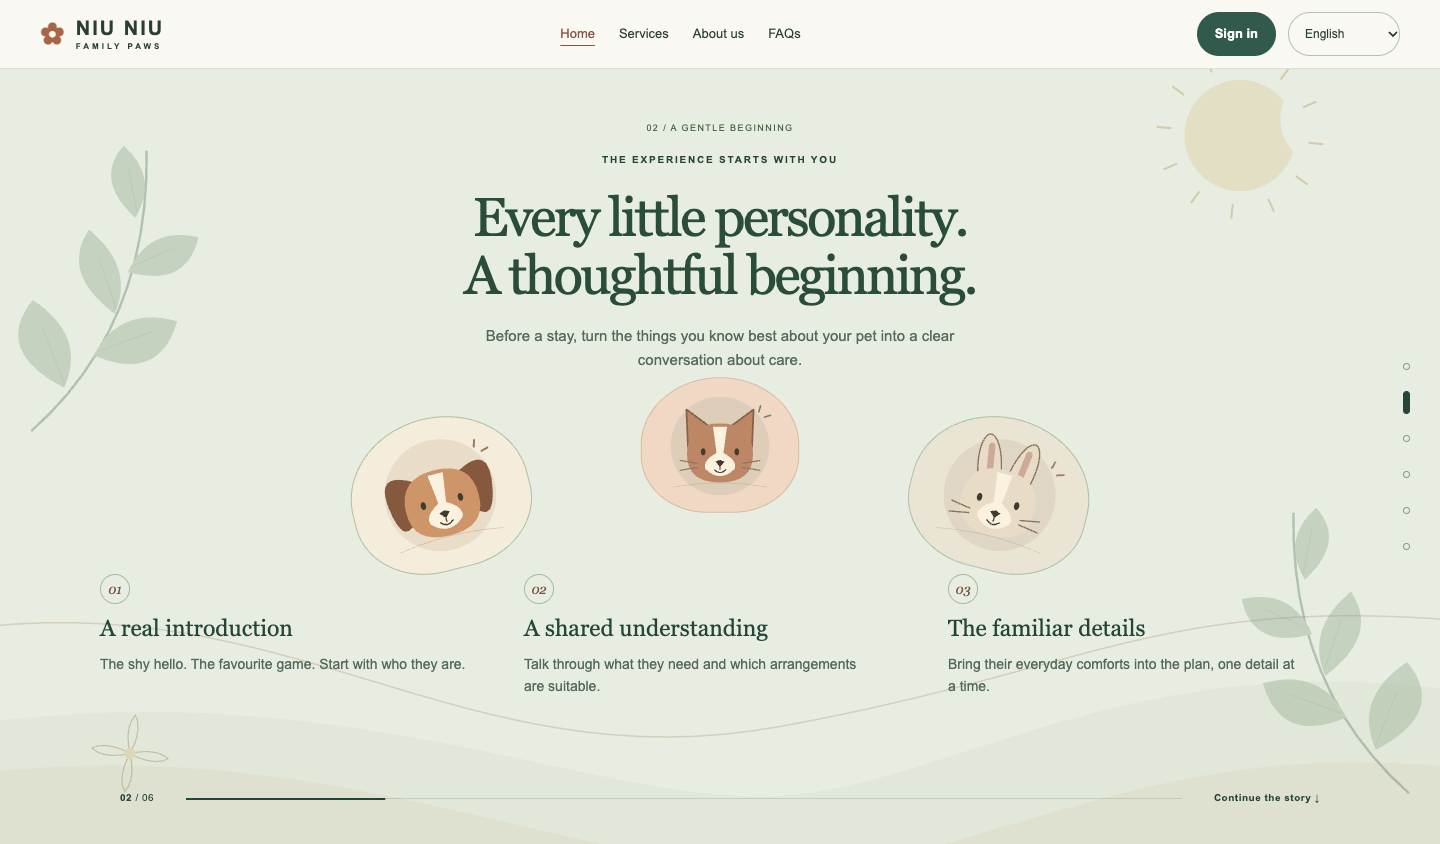
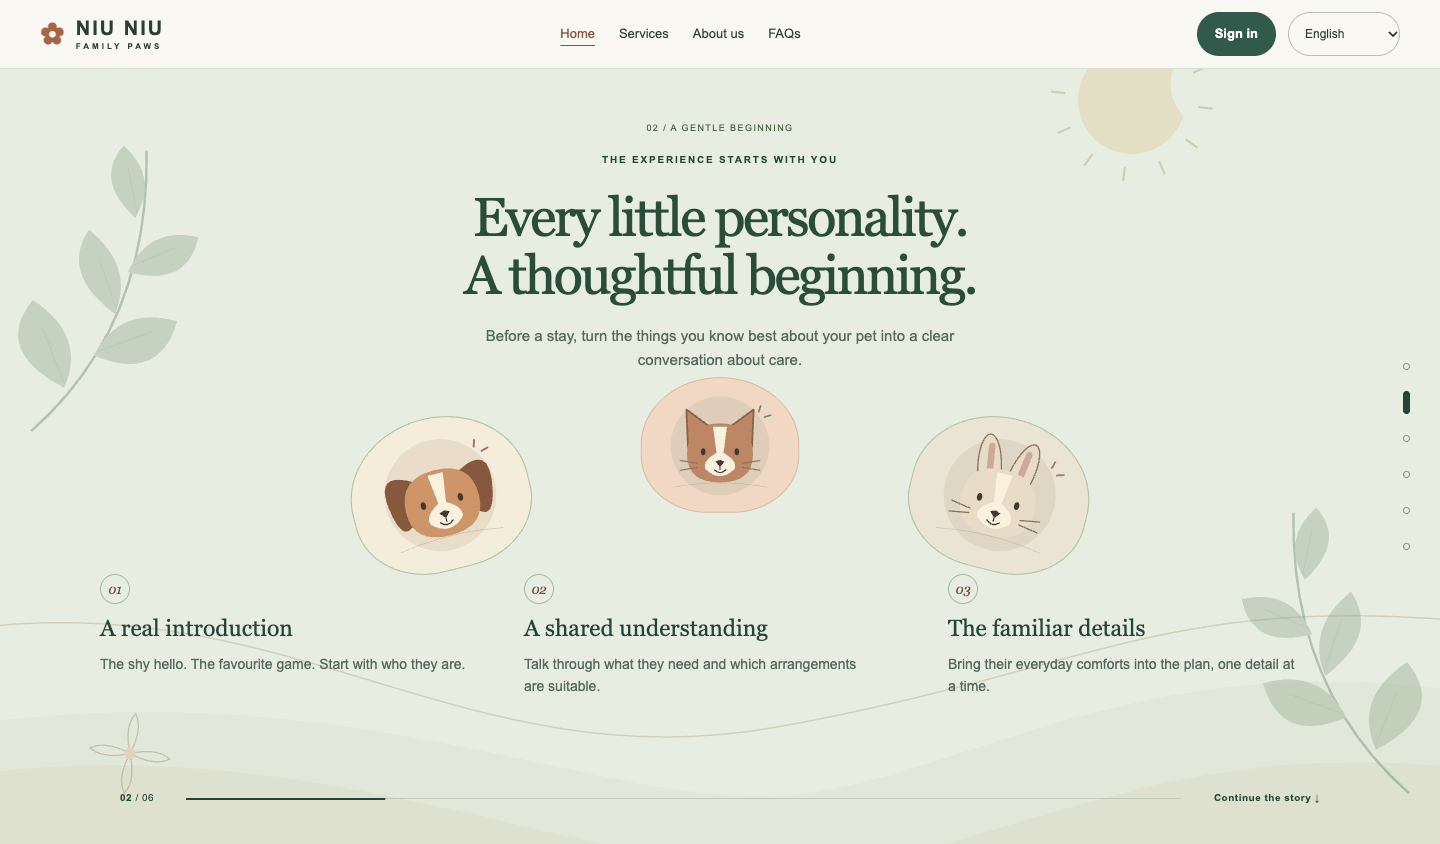
Refine sun travel and shape scaling (#73)
* Move the sun along one gentle arc and resize shapes purposefully

* Record sun motion review and signature verification

Changed region(s): [[0.75, 0.0616, 0.9062, 0.2464]]

diff --git a/tests/browser/marketing-scroll.spec.ts b/tests/browser/marketing-scroll.spec.ts
@@ -410,7 +410,7 @@ test('navbar moves the visible destination without fading or animating a hidden 
   await expect(page.locator('.marketing-site')).not.toHaveAttribute('data-marketing-transition');
 });
 
-test('scenes move edge to edge without fading and landscape ornaments stay anchored', async ({
+test('scenes move without fading; sun follows one arc and resizing serves the composition', async ({
   page,
 }) => {
   await page.setViewportSize({ width: 1440, height: 950 });
@@ -474,23 +474,15 @@ test('scenes move edge to edge without fading and landscape ornaments stay ancho
     expect(sample.gaps.every((gap) => Math.abs(gap) < 2)).toBe(true);
     samples.push(sample);
   }
-  expect(new Set(samples.map((sample) => sample.orbX)).size).toBe(1);
+  expect(samples[0].orbX - samples.at(-1)!.orbX).toBeGreaterThan(1000);
+  expect(
+    samples.every((sample, index) => index === 0 || sample.orbX < samples[index - 1].orbX),
+  ).toBe(true);
   expect(new Set(samples.map((sample) => sample.seedX)).size).toBe(1);
-  expect(samples.at(-1)!.orbScale).toBeGreaterThan(samples[0].orbScale);
-  expect(samples.at(-1)!.seedScale).toBeGreaterThan(samples[0].seedScale);
+  expect(new Set(samples.map((sample) => sample.orbScale)).size).toBe(1);
+  for (const sample of samples) expect(sample.seedScale).toBeCloseTo(samples[0].seedScale, 5);
   expect(samples[3].archScale).toBeLessThan(samples[0].archScale);
-  expect(
-    samples.every((sample, index) => index === 0 || sample.orbScale >= samples[index - 1].orbScale),
-  ).toBe(true);
-  expect(
-    samples.every(
-      (sample, index) => index === 0 || sample.seedScale >= samples[index - 1].seedScale,
-    ),
-  ).toBe(true);
-
-  expect(
-    samples.every((sample, index) => index === 0 || sample.orbY >= samples[index - 1].orbY),
-  ).toBe(true);
+  expect(samples.every((sample) => sample.orbY >= 80 && sample.orbY <= 100)).toBe(true);
   expect(
     samples.every((sample, index) => index === 0 || sample.seedY <= samples[index - 1].seedY),
   ).toBe(true);
@@ -503,4 +495,27 @@ test('scenes move edge to edge without fading and landscape ornaments stay ancho
   expect(keyframes.length).toBeGreaterThan(0);
   expect(keyframes.every((keyframe) => !('opacity' in keyframe))).toBe(true);
   await expect(page.locator('.marketing-site')).not.toHaveAttribute('data-marketing-transition');
+});
+
+test('sun and flower size adapts to phone composition instead of growing through the story', async ({
+  page,
+}) => {
+  const sizes: Array<{ sun: number; flower: number }> = [];
+  for (const width of [1440, 390]) {
+    await page.setViewportSize({ width, height: 950 });
+    await page.goto('/home/');
+    sizes.push(
+      await page.evaluate(() => {
+        const scale = (selector: string) => {
+          const matrix = (
+            document.querySelector(selector) as SVGGraphicsElement
+          ).transform.baseVal.consolidate()!.matrix;
+          return Math.hypot(matrix.a, matrix.b);
+        };
+        return { sun: scale('[data-journey-orb]'), flower: scale('[data-journey-seed]') };
+      }),
+    );
+  }
+  expect(sizes[1].sun).toBeLessThan(sizes[0].sun);
+  expect(sizes[1].flower).toBeLessThan(sizes[0].flower);
 });

diff --git a/apps/web/src/cinematic-scroll.ts b/apps/web/src/cinematic-scroll.ts
@@ -66,15 +66,18 @@ export function installCinematicStory(story: HTMLElement) {
       (value, index) => value + (landscapePoses[to][index] - value) * blend,
     );
     const spread = innerWidth <= 760 ? 0.24 : 1;
-    // Quiet anchors: the sun and flower no longer cross the composition or bounce.
+    // One skyward arc across the whole story, not repeated side-to-side chapter hops.
+    const sunProgress = progress * progress * (3 - 2 * progress);
+    const sunScale = innerWidth <= 760 ? 0.78 : 1;
+    const flowerScale = innerWidth <= 760 ? 0.5 : 0.65;
     orb?.setAttribute(
       'transform',
-      `translate(${720 + 520 * spread} ${125 + progress * 20}) scale(${1 + progress * 0.16})`,
+      `translate(${720 + 520 * spread * (1 - 2 * sunProgress)} ${100 - Math.sin(sunProgress * Math.PI) * 20}) scale(${sunScale})`,
     );
     moon?.setAttribute('cx', String(moonOffset));
     seed?.setAttribute(
       'transform',
-      `translate(${720 - 590 * spread} ${750 - progress * 15}) rotate(${chapter * 8}) scale(${0.6 + progress * 0.12})`,
+      `translate(${720 - 590 * spread} ${750 - progress * 15}) rotate(${chapter * 8}) scale(${flowerScale})`,
     );
     backHill?.setAttribute(
       'd',

diff --git a/apps/web/src/cinematic-story.css b/apps/web/src/cinematic-story.css
@@ -507,10 +507,3 @@
   border-radius: calc(50% - var(--scroll) * 18%) calc(50% - var(--scroll) * 8%)
     calc(8px + var(--scroll) * 60px) calc(8px + var(--scroll) * 32px);
 }
-.home-story.cinematic-story[data-cinema-enabled] .service-path .care-symbol {
-  transform-origin: center;
-  transform: scale(calc(1 - var(--scroll) * 0.18));
-}
-.home-story.cinematic-story[data-cinema-enabled] .symbol-disc {
-  transform: scale(calc(1 + var(--scroll) * 0.16));
-}

diff --git a/docs/session-handoff.md b/docs/session-handoff.md
@@ -1,5 +1,12 @@
 # Session handoff — 2026-10-22
 
+## Purposeful resizing and a travelling sun — 2026-11-16
+
+Owner clarified “Shape should resize as need. Sun should move.” Sun now follows one smooth global right-to-left sky arc over the whole story, easing into/out of travel without repeated chapter zigzags. Its size stays constant within a viewport, with a smaller phone composition. Flower remains on its own side and likewise uses a phone-specific scale rather than automatic growth. Removed arbitrary service-glyph shrinking and sun-disc growing; perspective/exit resizing on the hero, arch, portraits and question frame remains purposeful. No scene fades, palette changes, scroll interception or app/API/data changes.
+
+Validation: Node24 build, formatting, all34 unit tests and10 Chrome cases passed (9 marketing plus public routing/history). Regression verifies one-way sun travel, a bounded gentle vertical arc, stable sun/flower size during scrolling, smaller sizes for both on phones, real arch resizing and no-opacity scene movement. Additional EN/ZH320/390/760/1024/1440×844 copy checks passed. Actual localhost4180 Chrome tab opened via Chrome DevTools in a separate background context, walked Home → Services, scrolled farther (sun position changed smoothly), then Home with full header and scroll0. Owner's active tab was not taken over. Updated animated-navigation and persistent-nav screenshots show the current composition. Preserve owner .gitignore edit, WIP#41, dist-dev and temporary Firebase config. Review: https://github.com/Fifiloveniuniu/niu-niu-family-paws/pull/73. Implementationbfee61e is GitHub Verified (valid); routine merge authorized after required checks. Consult PR for final status. Deployment remains deferred.
+
+
 ## Movement-only scenes, calm ornaments and resizing shapes — 2026-11-16
 
 Owner requested calming the sun/flower side-to-side bouncing, no opacity for scene changes, natural movement with offscreen exits allowed, then explicitly added shape resizing. Replaced panel/copy dissolves with full-height edge-to-edge vertical travel driven by a smooth acceleration/settling curve. Adjacent panels meet without gaps; active navigation follows the dominant scene. Navbar/rail/next clicks now move content fully outside/inside the viewport, upward for forward destinations and downward for backward destinations, with no opacity keyframes. Short/static screens choose the visible section for their exit rather than moving the entire long page.

diff --git a/docs/business-owner-guide.md b/docs/business-owner-guide.md
@@ -276,3 +276,10 @@ Navbar and right-side chapter clicks now animate the chosen scene reliably. The 
 Scenes now move into and out of the screen without fading. The sun and flower stay on their own sides with slow drift and gradual size changes. Arches, petals, portraits and illustrated frames grow or contract with the scroll. Navbar and chapter clicks move forward/up or backward/down as appropriate. Reduce Motion keeps ordinary static sections. This is locally validated and awaits the final combined deployment.
 
 场景现在通过移入和移出屏幕切换，不再淡入淡出。太阳和花朵固定在各自一侧，只缓慢漂移并逐渐改变大小。拱门、花瓣、宠物插画及边框会随滚动舒展或收缩。导航及章节按钮根据方向向上或向下移动内容。“减少动态效果”模式保留普通静态页面。当前本地验证完成，等待最终统一上线。
+
+
+## A travelling sun and purposeful scale — 2026-11-16
+
+The sun now travels along one gentle arc through the whole story, rather than bouncing between sides or staying fixed. Sun and flower sizes adapt to the screen; they do not grow continually as you scroll. Other resizing supports perspective and scene departures. Movement-only transitions, the visible/current navbar and Reduce Motion remain. This is locally validated and awaits the final combined deployment.
+
+太阳现在沿一条柔和的弧线贯穿整个故事，不再左右反复跳动，也不再固定不动。太阳与花朵的大小根据屏幕调整，不会随着滚动不断变大；其他缩放用于表现透视与场景离开。继续保留无淡入淡出的移动切换、始终可见并标记当前章节的导航，以及“减少动态效果”模式。目前本地验证完成，等待最终统一上线。

diff --git a/docs/requirements.md b/docs/requirements.md
@@ -209,3 +209,8 @@ Treat the marketing chapters as one continuous illustrated piece. Allow shapes i
 ## Natural movement and shape resizing — 2026-11-16
 
 Latest owner direction supersedes opacity-based scene changes: use movement into/out of the viewport, including offscreen side exits where appropriate. Calm the shared sun/flower so they do not bounce between sides. Include scroll-linked shape resizing, keeping everything smooth, natural and reversible. Preserve animated navbar/chapter navigation, active-section indication, sticky header, neutral backgrounds, readable text and reduced-motion/static access.
+
+
+## Purposeful scale and sun movement — 2026-11-16
+
+Owner clarification: shapes resize when needed by the composition; the sun should move. Use one continuous, gentle sun journey rather than repeated chapter zigzags. Avoid automatic ornament growth for its own sake; adapt their size for screen fit while retaining useful perspective/exit resizing and movement-only scene changes.
